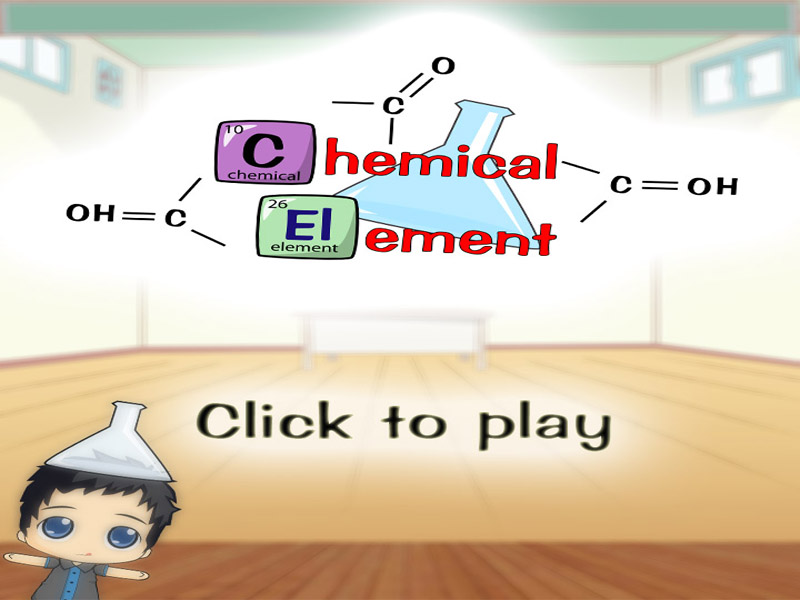
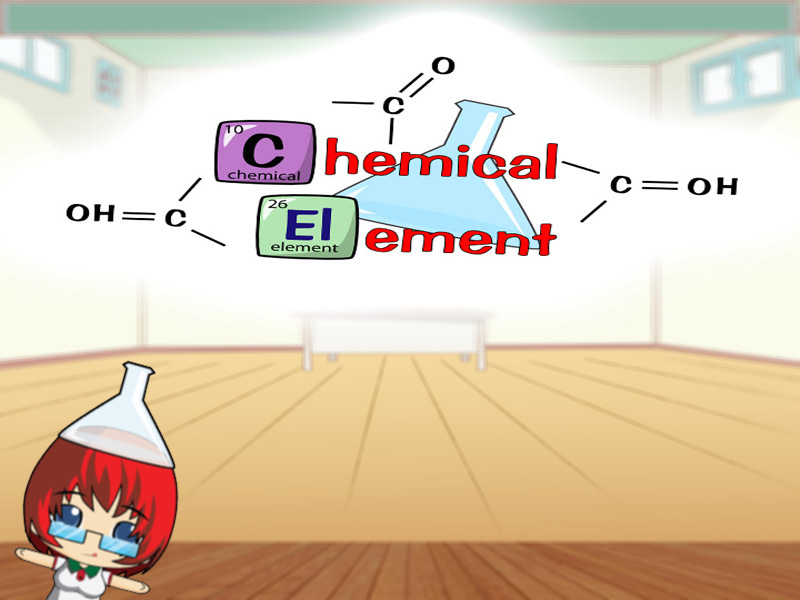
nova personagem do catch e som do click

Changed region(s): [[0.0, 0.6, 0.8438, 1.0]]

diff --git a/trunk/gameportal_v03.1/js/game3/game_3_scene_level_1.js b/trunk/gameportal_v03.1/js/game3/game_3_scene_level_1.js
@@ -8,7 +8,7 @@ function Game3SceneLevel1()
 
 	//----------- efeito sonoro 1----------
 	this.song_fx = new Audio();
-	this.song_fx.src = "sounds/game3/item comum133280__fins__game-pick-up-object.wav";
+	this.song_fx.src = "sounds/game3/item comum.mp3";
 	this.song_fx.load();
 	this.song_fx.loop = false;
 	this.song_fx.volume = 0.6;
@@ -81,8 +81,9 @@ function Game3SceneLevel1()
 				}			
 			
 			// game over
-			if (this.player1.life == 3)
-			{
+			if (this.player1.life <= 0)
+			{		
+				//this.player1.life = 3;
 				//this.currentGameScene = this.GAMESCENE.INTRO; 
 			}
 			
@@ -108,7 +109,7 @@ function Game3SceneLevel1()
 			// desenha os posntos, vida e etc...
 			screen.font="27px Comic Sans";
 			screen.fillStyle="#E6F4E9";
-			screen.fillText("lives: " + this.player1.life,20,28);
+			screen.fillText("Lives: " + this.player1.life,20,28);
 			screen.fillText("Pegue os: gases nobres",291,28);
 			screen.fillText("Points: "+ this.player1.points,639,28);
 			

diff --git a/trunk/gameportal_v03.1/js/scene_credit.js b/trunk/gameportal_v03.1/js/scene_credit.js
@@ -37,6 +37,8 @@ function SceneCredit()
    	{
    		if(this.button_back.clicked(mouse))
     	{
+			//som de click
+			click_btn.play();
     		currentScene = SCENE.MENU;
     	}
    	};
